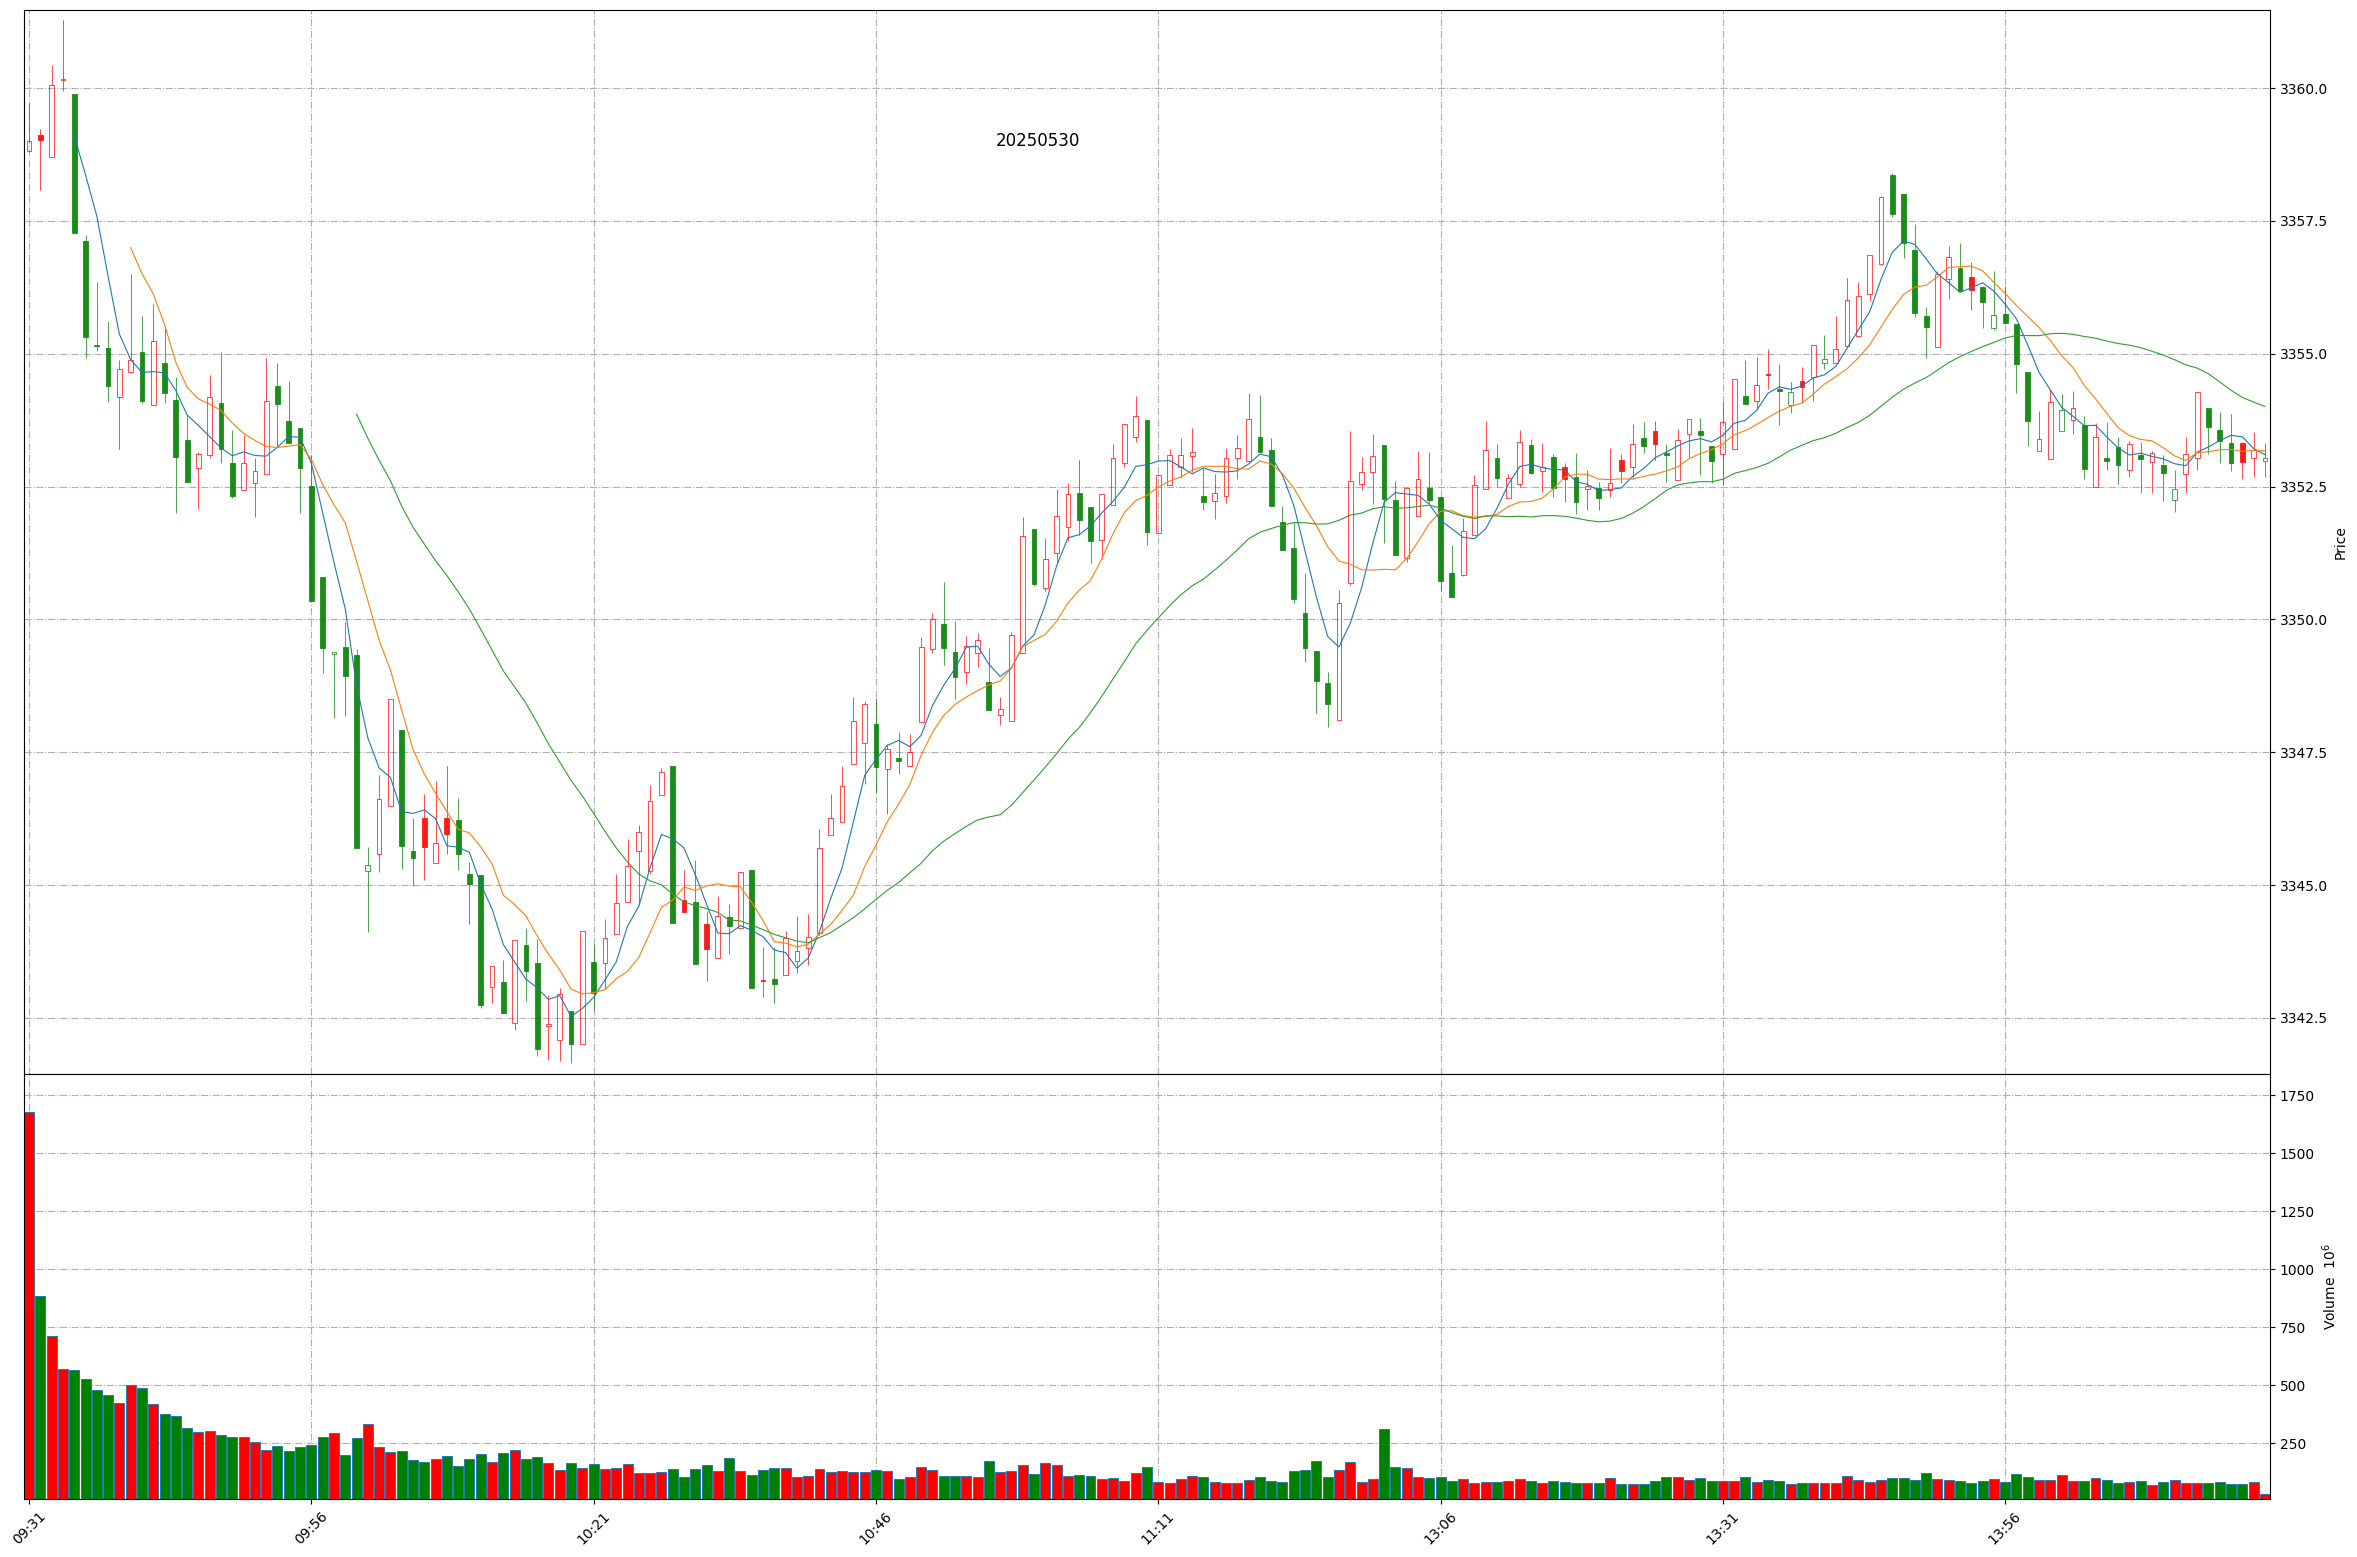
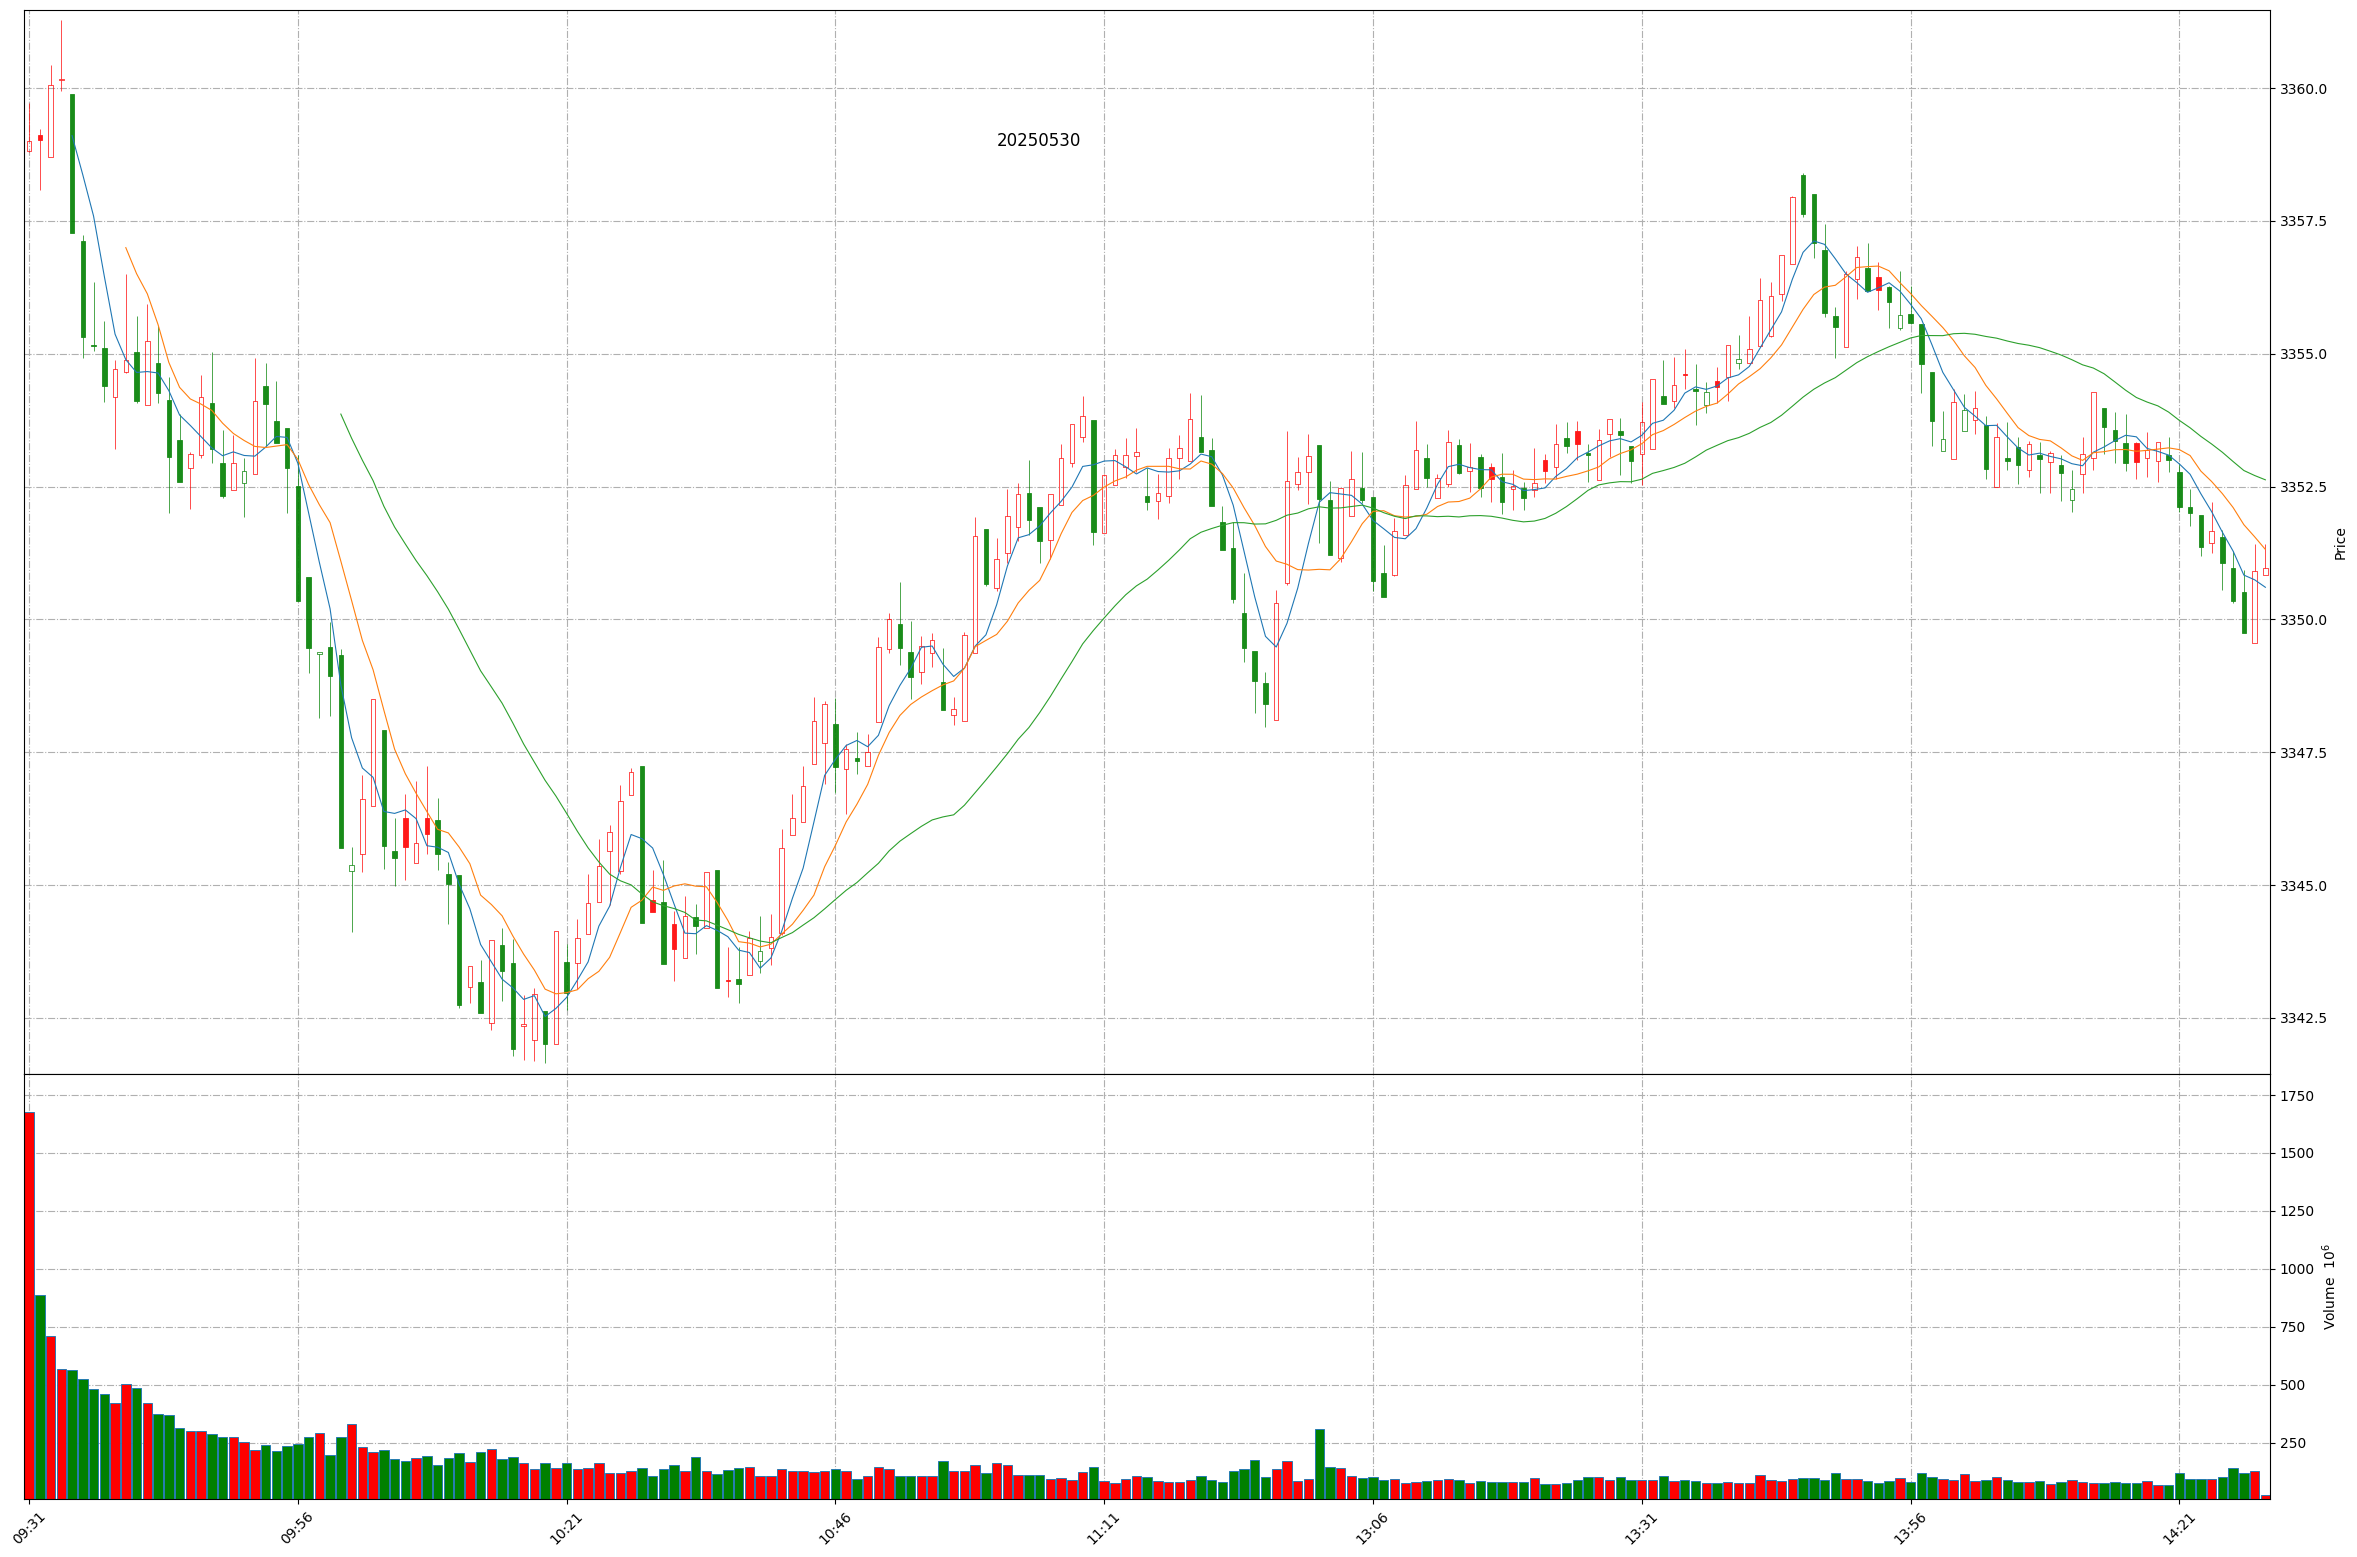
Github action update at 2025-05-30 14:28:38.

Changed region(s): [[0.031, 0.1233, 0.9601, 0.6782], [0.0, 0.894, 0.9601, 0.9865], [0.5575, 0.4316, 0.5885, 0.4624]]

diff --git a/README.md b/README.md
@@ -1,11 +1,11 @@
 
 # Daily-A-share-market-quotes 每日 A 股指数（5min 更新）- 20250530
 
-### 上证指数 20250530 14:18
+### 上证指数 20250530 14:28
 ![](./fig/2025/5/20250530-sh000001.png)
 
-### 深证成指 20250530 14:18
+### 深证成指 20250530 14:28
 ![](./fig/2025/5/20250530-sz399001.png)
 
-### 北证50 20250530 14:18
+### 北证50 20250530 14:28
 ![](./fig/2025/5/20250530-bj899050.png)
